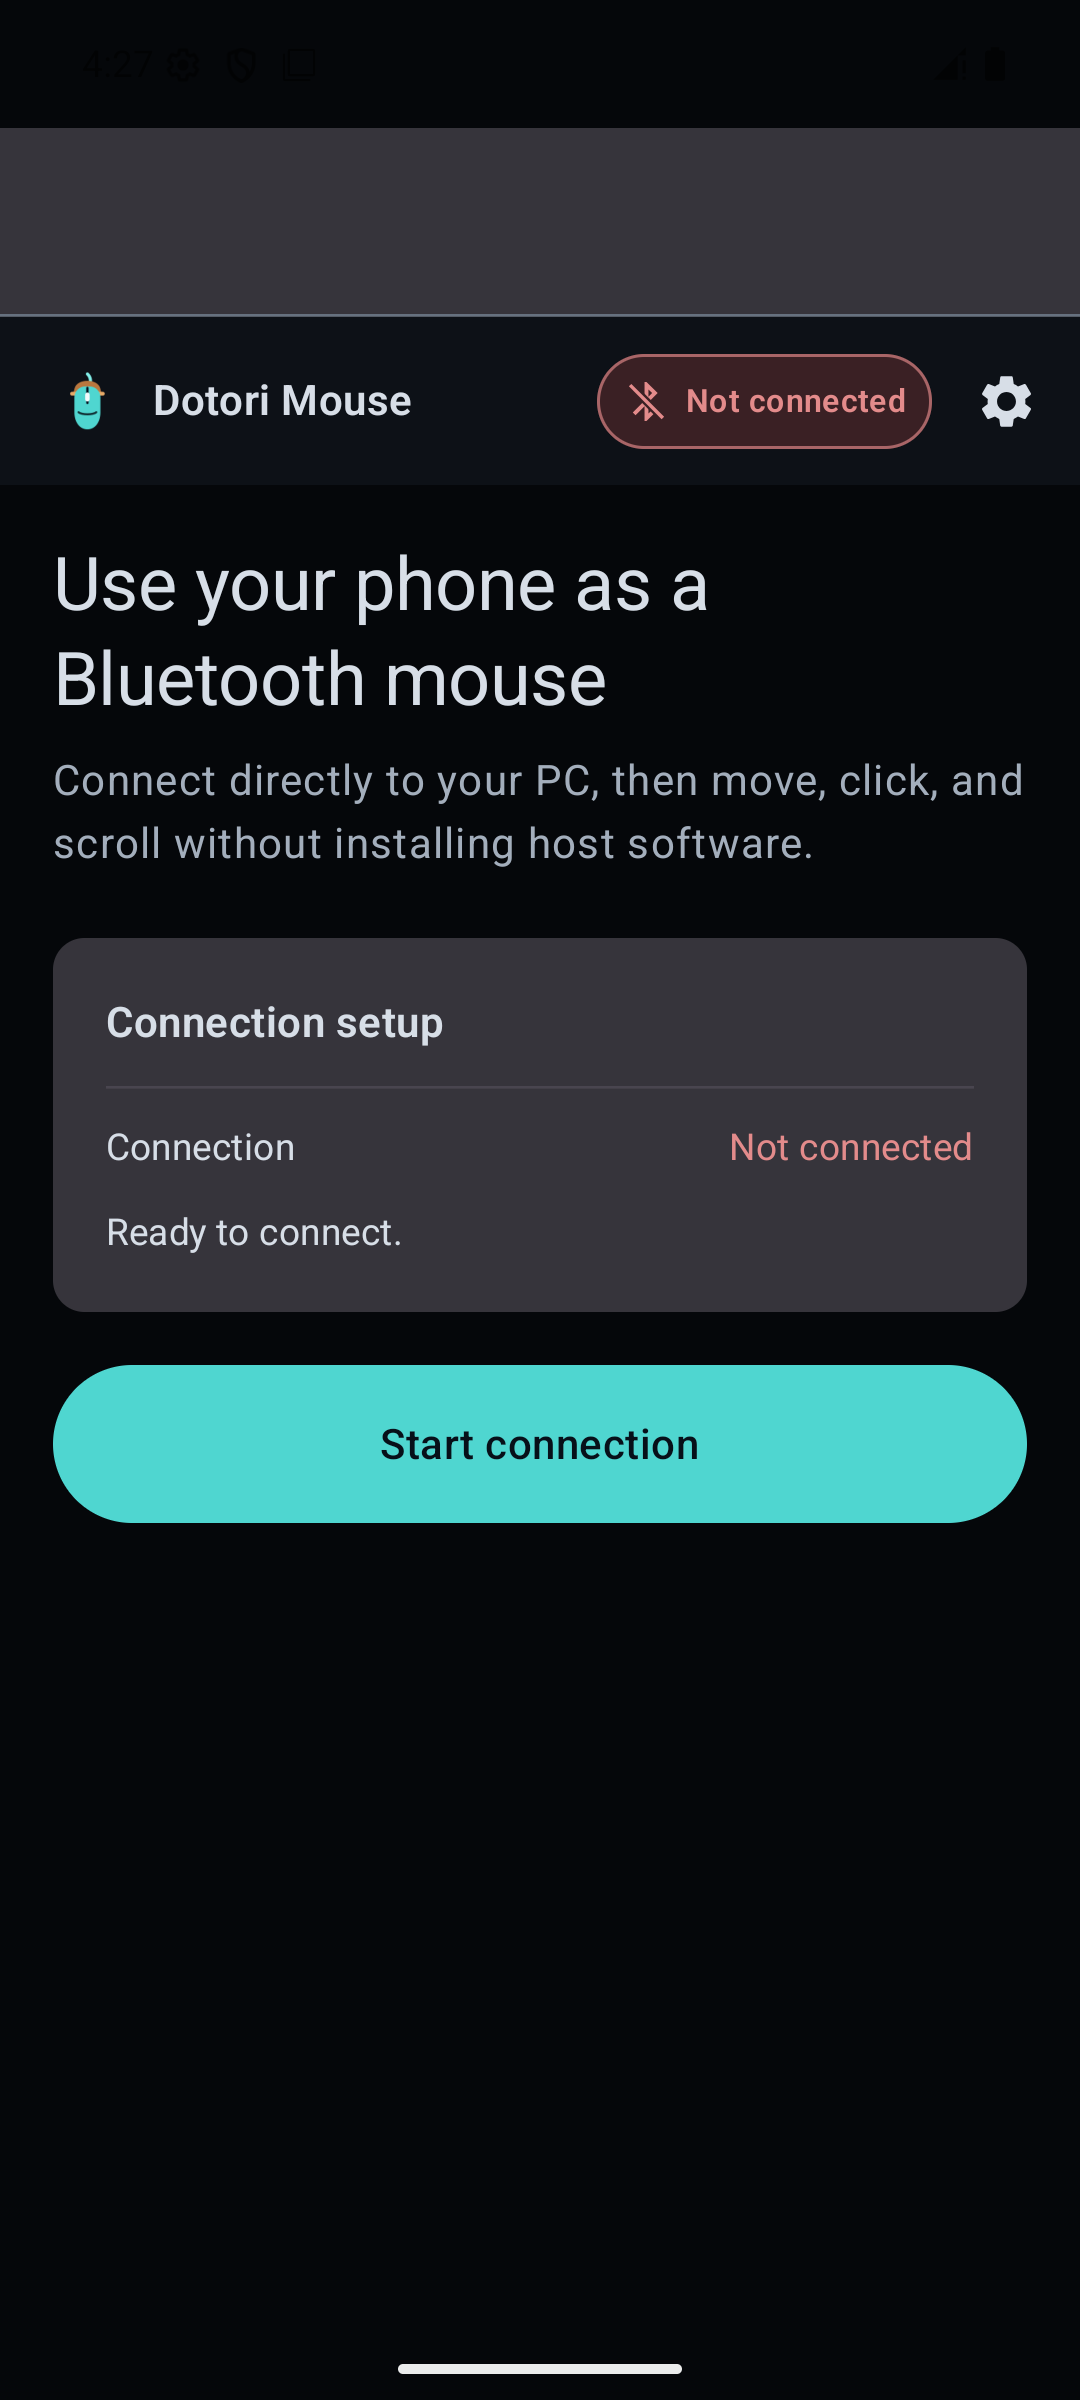
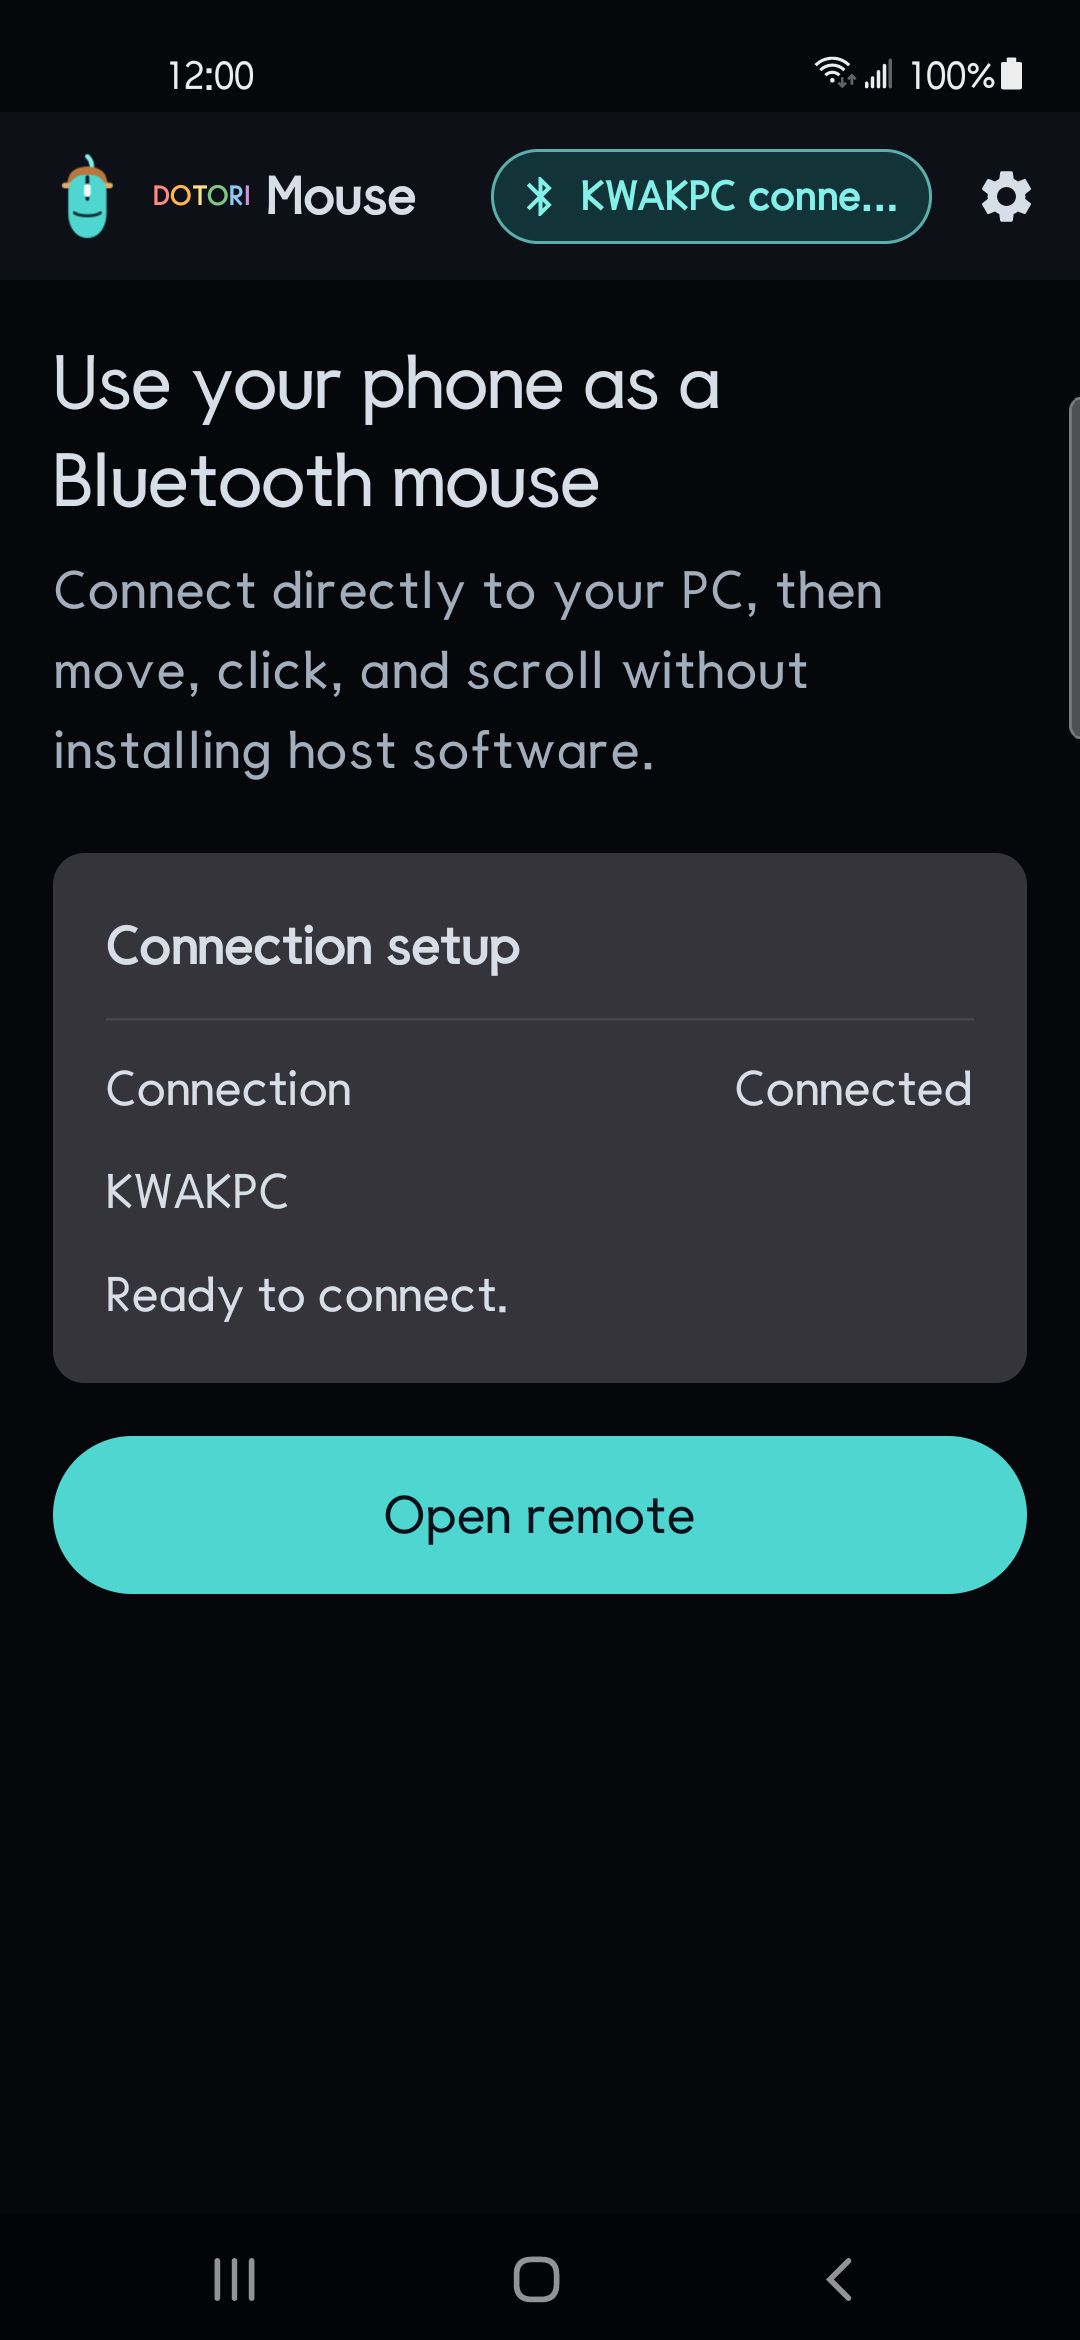
bt-mouse 글 스크린샷을 재촬영본으로 교체하고 인트로 컷 추가
- 새 브랜드 탑바가 반영된 1080x2340 전체 화면으로 en/ko 4장 교체
- 시작 화면을 05-intro 로 목록 맨 뒤에 넣고 캡션은 ssh·wifi·ppt 인트로 정형을 따름
- 실제 이미지 높이가 2340 이라 img height 속성을 2400 에서 정정

diff --git a/ko/blog/use-android-phone-as-bluetooth-mouse/index.html b/ko/blog/use-android-phone-as-bluetooth-mouse/index.html
@@ -117,10 +117,11 @@ horizontal scroll = Left Shift 누름 + wheel + modifier 복원</code></pre>
 
     <h2>연결·설정·도움말 화면</h2>
     <div class="screenshot-grid">
-      <figure><img src="/blog/use-android-phone-as-bluetooth-mouse/assets/ko-KR/01-home.png" width="1080" height="2400" loading="lazy" decoding="async" alt="Bluetooth 마우스 연결 화면"><figcaption>입력을 활성화하기 전에 연결 준비 상태를 분명히 보여주는 홈 화면.</figcaption></figure>
-      <figure><img src="/blog/use-android-phone-as-bluetooth-mouse/assets/ko-KR/02-settings.png" width="1080" height="2400" loading="lazy" decoding="async" alt="Bluetooth 마우스 포인터 설정"><figcaption>포인터 감도와 스크롤 동작을 앱 설정에 저장합니다.</figcaption></figure>
-      <figure><img src="/blog/use-android-phone-as-bluetooth-mouse/assets/ko-KR/03-help.png" width="1080" height="2400" loading="lazy" decoding="async" alt="Bluetooth 마우스 도움말"><figcaption>HID 요구사항과 상대 기기에 따른 한계를 도움말에 기록합니다.</figcaption></figure>
-      <figure><img src="/blog/use-android-phone-as-bluetooth-mouse/assets/ko-KR/04-language.png" width="1080" height="2400" loading="lazy" decoding="async" alt="Bluetooth 마우스 언어 선택"><figcaption>사용자 인터페이스는 한국어와 영어를 지원합니다.</figcaption></figure>
+      <figure><img src="/blog/use-android-phone-as-bluetooth-mouse/assets/ko-KR/01-home.png" width="1080" height="2340" loading="lazy" decoding="async" alt="Bluetooth 마우스 연결 화면"><figcaption>입력을 활성화하기 전에 연결 준비 상태를 분명히 보여주는 홈 화면.</figcaption></figure>
+      <figure><img src="/blog/use-android-phone-as-bluetooth-mouse/assets/ko-KR/02-settings.png" width="1080" height="2340" loading="lazy" decoding="async" alt="Bluetooth 마우스 포인터 설정"><figcaption>포인터 감도와 스크롤 동작을 앱 설정에 저장합니다.</figcaption></figure>
+      <figure><img src="/blog/use-android-phone-as-bluetooth-mouse/assets/ko-KR/03-help.png" width="1080" height="2340" loading="lazy" decoding="async" alt="Bluetooth 마우스 도움말"><figcaption>HID 요구사항과 상대 기기에 따른 한계를 도움말에 기록합니다.</figcaption></figure>
+      <figure><img src="/blog/use-android-phone-as-bluetooth-mouse/assets/ko-KR/04-language.png" width="1080" height="2340" loading="lazy" decoding="async" alt="Bluetooth 마우스 언어 선택"><figcaption>사용자 인터페이스는 한국어와 영어를 지원합니다.</figcaption></figure>
+      <figure><img src="/blog/use-android-phone-as-bluetooth-mouse/assets/ko-KR/05-intro.png" width="1080" height="2340" loading="lazy" decoding="async" alt="Dotori Bluetooth Mouse 시작 화면"><figcaption>앱을 열면 홈 화면 전에 짧은 브랜드 시작 화면이 나타납니다.</figcaption></figure>
     </div>
 
     <div class="note">

diff --git a/blog/use-android-phone-as-bluetooth-mouse/index.html b/blog/use-android-phone-as-bluetooth-mouse/index.html
@@ -120,10 +120,11 @@ horizontal scroll = Left Shift down + wheel + restore modifiers</code></pre>
 
     <h2>Connection, settings, and help screens</h2>
     <div class="screenshot-grid">
-      <figure><img src="assets/en-US/01-home.png" width="1080" height="2400" loading="lazy" decoding="async" alt="Bluetooth mouse connection screen"><figcaption>The home screen makes connection readiness explicit before input is enabled.</figcaption></figure>
-      <figure><img src="assets/en-US/02-settings.png" width="1080" height="2400" loading="lazy" decoding="async" alt="Bluetooth mouse pointer settings"><figcaption>Pointer sensitivity and scrolling behavior are stored as app settings.</figcaption></figure>
-      <figure><img src="assets/en-US/03-help.png" width="1080" height="2400" loading="lazy" decoding="async" alt="Bluetooth mouse help screen"><figcaption>Help records the HID requirement and host-dependent limitations.</figcaption></figure>
-      <figure><img src="assets/en-US/04-language.png" width="1080" height="2400" loading="lazy" decoding="async" alt="Bluetooth mouse language selection"><figcaption>The user interface is available in English and Korean.</figcaption></figure>
+      <figure><img src="assets/en-US/01-home.png" width="1080" height="2340" loading="lazy" decoding="async" alt="Bluetooth mouse connection screen"><figcaption>The home screen makes connection readiness explicit before input is enabled.</figcaption></figure>
+      <figure><img src="assets/en-US/02-settings.png" width="1080" height="2340" loading="lazy" decoding="async" alt="Bluetooth mouse pointer settings"><figcaption>Pointer sensitivity and scrolling behavior are stored as app settings.</figcaption></figure>
+      <figure><img src="assets/en-US/03-help.png" width="1080" height="2340" loading="lazy" decoding="async" alt="Bluetooth mouse help screen"><figcaption>Help records the HID requirement and host-dependent limitations.</figcaption></figure>
+      <figure><img src="assets/en-US/04-language.png" width="1080" height="2340" loading="lazy" decoding="async" alt="Bluetooth mouse language selection"><figcaption>The user interface is available in English and Korean.</figcaption></figure>
+      <figure><img src="assets/en-US/05-intro.png" width="1080" height="2340" loading="lazy" decoding="async" alt="Dotori Bluetooth Mouse startup screen"><figcaption>The app opens on a short branded startup screen before the home view.</figcaption></figure>
     </div>
 
     <div class="note">
